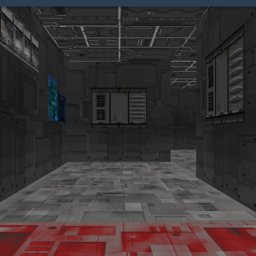
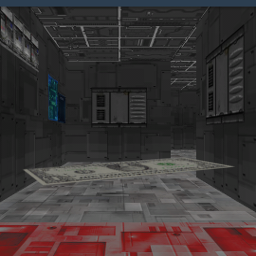
labyrinth graphics, improvements

Changed region(s): [[0.0938, 0.5938, 0.9062, 0.7188]]

diff --git a/LabyrinthDemo/PaintingView.cs b/LabyrinthDemo/PaintingView.cs
@@ -1,29 +1,21 @@
-using System;
-using System.Runtime.InteropServices;
-using OpenTK.Graphics;
-using OpenTK.Graphics.ES11;
-using OpenTK.Platform;
-using OpenTK.Platform.Android;
-using OpenTK;
 using Android.Content;
-using Android.Graphics;
 using Android.Util;
 using Android.Views;
-using System.Collections.Generic;
+using Android.Widget;
 using GLEngineMobile;
 using LoggerService;
-using Android.Content.Res;
-using System.IO;
-using Android.Widget;
-using System.Threading.Tasks;
+using OpenTK;
+using OpenTK.Graphics;
+using OpenTK.Graphics.ES11;
+using OpenTK.Platform.Android;
+using System;
 
 namespace GLEngineMobileLabyrinthDemo
 {
-	class PaintingView : AndroidGameView
+    class PaintingView : AndroidGameView
 	{
         GLPoint _fingerTapCoordinates = new GLPoint();
         GLPoint _finger2TapCoordinates = new GLPoint();
-        private int width, height;
         private TapCrossMoveEvent _lastTapCrossMove;
         private TapCrossMoveEvent _lastTapSideMove;
         private GLScene _scene;
@@ -56,8 +48,6 @@ namespace GLEngineMobileLabyrinthDemo
 
             Resize += delegate 
             {
-				height = Height;
-				width = Width;
 				SetupCamera ();
 			};           
 
@@ -67,10 +57,7 @@ namespace GLEngineMobileLabyrinthDemo
 
         private void SetupCamera()
         {
-            width = Width;
-            height = Height;
-
-            GL.Viewport(0, 0, width, height);
+            GL.Viewport(0, 0, Width, Height);
             // setup projection matrix
             GL.MatrixMode(All.Projection);
 
@@ -173,7 +160,9 @@ namespace GLEngineMobileLabyrinthDemo
 			GL.Enable (All.DepthTest);
 			GL.DepthFunc (All.Lequal);
 
-            Restart();
+            var labyrinth = (_scene.GetObjectByName("labyrinth") as GLLabyrinthObj);
+            if (labyrinth.Polygons.Count == 0)
+                Restart();
 
             SetupCamera();			
 		}
@@ -196,6 +185,11 @@ namespace GLEngineMobileLabyrinthDemo
 
             _scene.Observer.Position = labyrinth.LabPointToScenePoint(labyrinth.StartPos);
             _scene.Observer.Rotation = new GLVector(0, 180, 0);
+
+            _lastTapCrossMove = null;
+            _lastTapSideMove = null;
+
+            UpdateDisplays();
         }
 
         protected override void OnUnload(EventArgs e)
@@ -211,7 +205,7 @@ namespace GLEngineMobileLabyrinthDemo
         public override bool OnTouchEvent (MotionEvent e)
 	    {
             var crossSize = Convert.ToInt32(PxFromDp(135));
-            var sidemoveLeftPos = Convert.ToInt32(PxFromDp(20));
+            var marginSize = Convert.ToInt32(PxFromDp(20));
 
             // 1 finger for every half of screen
 
@@ -229,7 +223,7 @@ namespace GLEngineMobileLabyrinthDemo
                     _lastTapCrossMove = TapCrossMoveEvent.GetTapMoveEvent(
                           crossSize,
                           crossSize,
-                          e.GetX() - (Width - crossSize),
+                          e.GetX() - (Width - crossSize) - marginSize,
                           e.GetY() - (Height - crossSize));
                 }
                 else
@@ -238,7 +232,7 @@ namespace GLEngineMobileLabyrinthDemo
                     _lastTapSideMove = TapCrossMoveEvent.GetTapMoveEvent(
                           crossSize,
                           crossSize,
-                          e.GetX() - sidemoveLeftPos,
+                          e.GetX() - marginSize,
                           e.GetY() - (Height - crossSize));
                 }
 
@@ -296,12 +290,12 @@ namespace GLEngineMobileLabyrinthDemo
                 if (_lastTapSideMove.Right > 10)
                 {
                     //_scene.Go(DirectionEnum.Right, _lastTapSideMove.Right / 50f);
-                    _scene.Observer.Rotation.Y += _lastTapSideMove.Right / 5f;
+                    _scene.Observer.Rotation.Y += _lastTapSideMove.Right / 10f;
                 }
                 if (_lastTapSideMove.Left > 10)
                 {
                     //_scene.Go(DirectionEnum.Left, _lastTapSideMove.Left / 50f);
-                    _scene.Observer.Rotation.Y -= _lastTapSideMove.Left / 5f;
+                    _scene.Observer.Rotation.Y -= _lastTapSideMove.Left / 10f;
                 }
             }
 
@@ -311,26 +305,37 @@ namespace GLEngineMobileLabyrinthDemo
             if (nearestBonusItem != null)
             {
                 var dist = _scene.Observer.Position.DistanceToPoint(nearestBonusItem.Position);
-                if (dist < 15)
+                if (dist < labyrinth.TileWidth)
                 {
                     labyrinth.PickUpBonusItem(nearestBonusItem);
+                    UpdateDisplays();
                 }
             }
             
             var finishPosition = labyrinth.LabPointToScenePoint(labyrinth.EndPos);
             var distToFinish = _scene.Observer.Position.DistanceToPoint(finishPosition);
-            if (distToFinish < 15 && !labyrinth.Locked)
+            if (distToFinish < labyrinth.TileWidth && !labyrinth.Locked)
             {
-                labyrinth.Level++;
+                labyrinth.Level++;                
                 Restart();
-            }
+            }         
 
-            if (DebugDisplayLabel != null)
-            {
-                DebugDisplayLabel.Text = $"Position: {_scene.Observer.Position.ToShortString()} Rotation: : {_scene.Observer.Rotation.ToShortString()}";
-            }
+            Render();
+        }
+
+        private void UpdateDisplays()
+        {
+            var labyrinth = (_scene.GetObjectByName("labyrinth") as GLLabyrinthObj);
+
+                /*
+             if (DebugDisplayLabel != null)
+             {
+                 DebugDisplayLabel.Text = $"Position: {_scene.Observer.Position.ToShortString()} Rotation: : {_scene.Observer.Rotation.ToShortString()}";
+             }
+             */
+
             if (LeftDisplayLabel != null)
-            {             
+            {
                 LeftDisplayLabel.Text = $"{labyrinth.FinishCount}/{labyrinth.BonusItemsCount}";
             }
             if (RightDisplayLabel != null)
@@ -341,8 +346,6 @@ namespace GLEngineMobileLabyrinthDemo
             {
                 CenterDisplayLabel.Text = labyrinth.Locked ? "Find all dollars" : "Find exit";
             }
-
-            Render();
         }
 
         void Render ()

diff --git a/LabyrinthDemo/GLLabyrinthObj.cs b/LabyrinthDemo/GLLabyrinthObj.cs
@@ -114,9 +114,9 @@ namespace GLEngineMobileLabyrinthDemo
 
 		public void Generate(Context context)
 		{		
-		 	Clear();		
+		 	Clear();
 
-			State = AutoPilotStateEnum.Stoppped;
+            State = AutoPilotStateEnum.Stoppped;
 		 	
 		 	StartPos = new Point(Rnd.Next(20,80),Rnd.Next(20,80));
 
@@ -258,6 +258,7 @@ namespace GLEngineMobileLabyrinthDemo
 			Logger.Info("Map:"+Environment.NewLine+mapLines.ToString());  
 				 				 			 			
 			Locked = true;
+            FinishCount = 0;
 					 			
 			Move(-TileWidth/2,0,0);			
 		}
